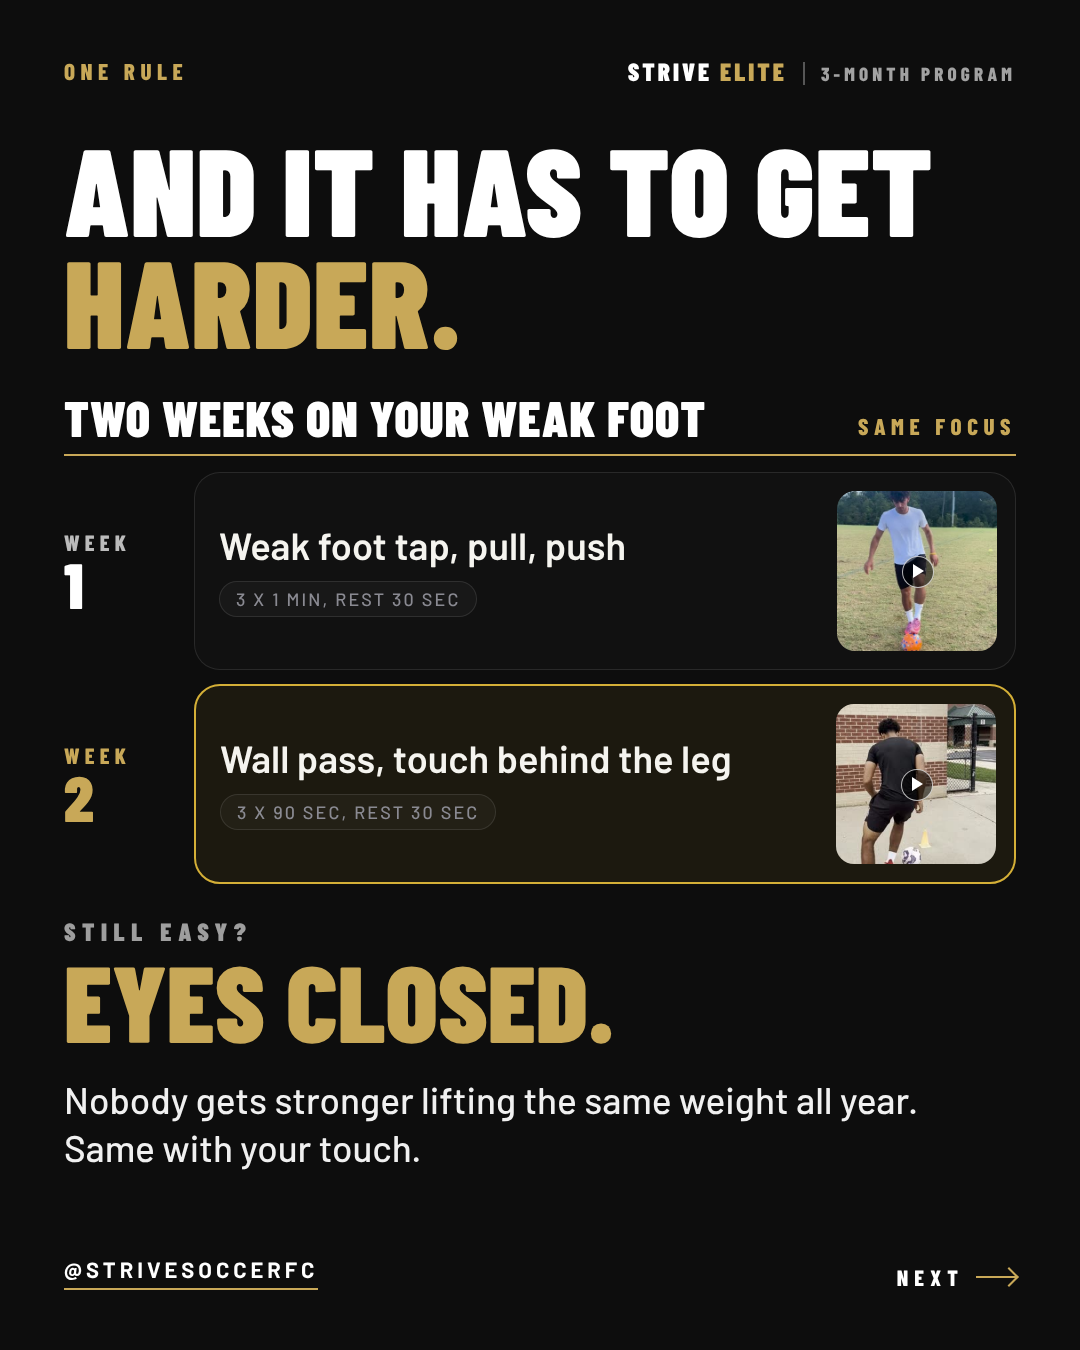
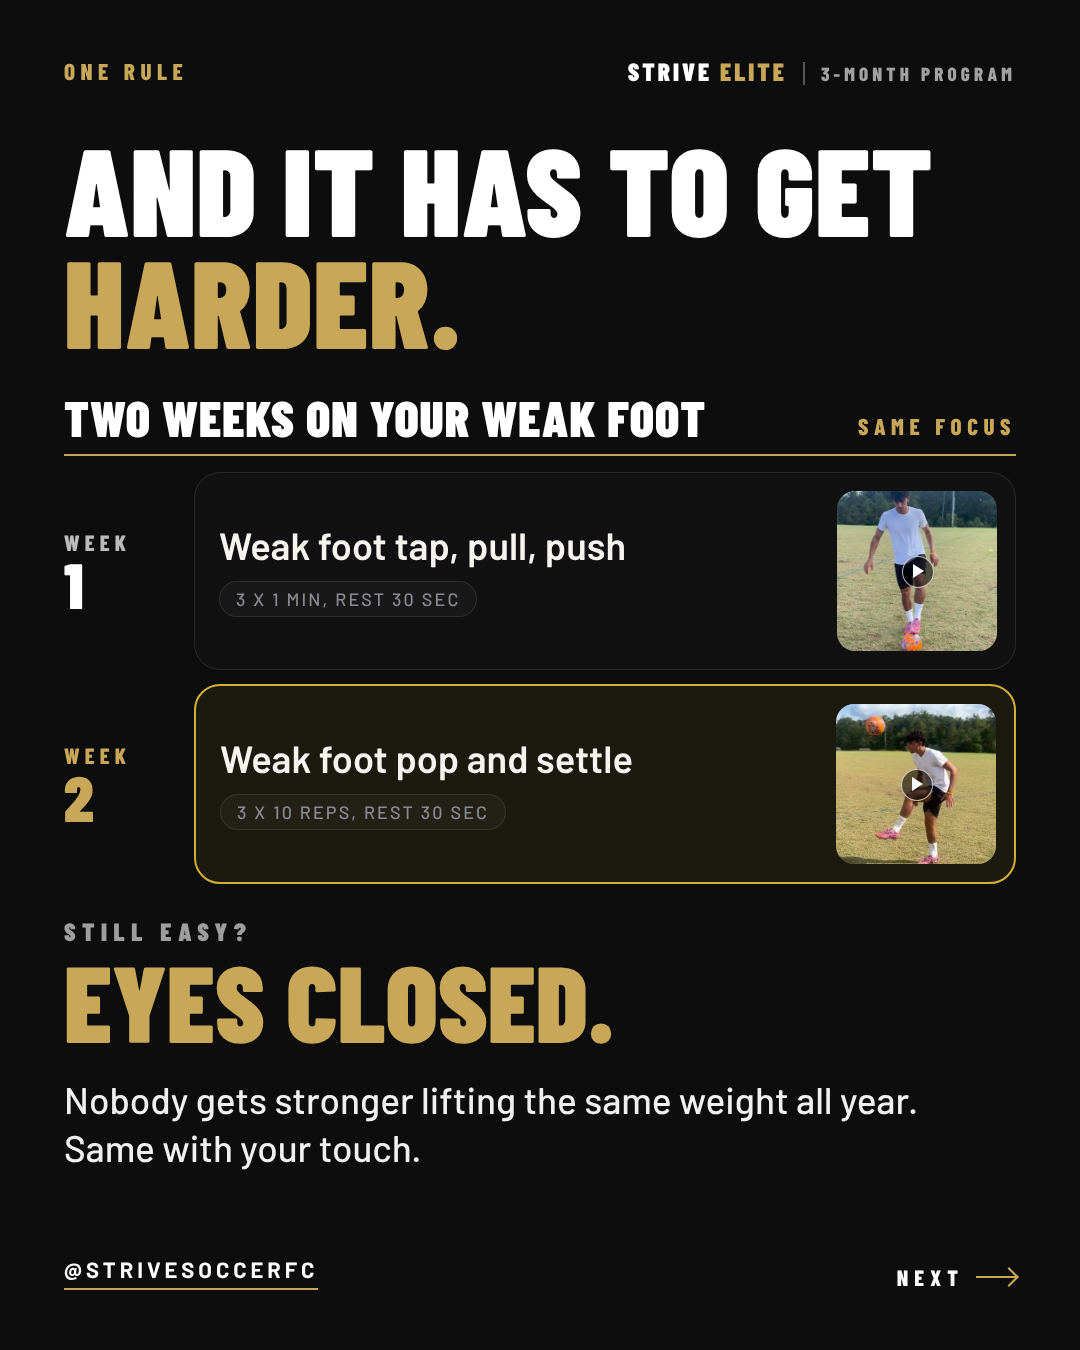
Opinion carousel: week two drill is Weak foot pop and settle
Claude-Session: https://claude.ai/code/session_011JsCTTjCbUkHbTuWTKQSXJ

Changed region(s): [[0.7639, 0.4978, 0.9472, 0.6533], [0.2444, 0.5289, 0.6722, 0.6222]]

diff --git a/marketing/program/one-thing-carousel-3/06-harder.html b/marketing/program/one-thing-carousel-3/06-harder.html
@@ -15,7 +15,7 @@
 <div class="pad"><h1>And it has to get <span>harder.</span></h1>
 <div class="sched"><div class="hd"><b>Two weeks on your weak foot</b><span>Same focus</span></div><div class="tt">
 <div class="tr"><div class="lb">Week<b>1</b></div><div class="card"><div class="tx"><div class="tl">Weak foot tap, pull, push</div><span class="chip">3 x 1 min, rest 30 sec</span></div><div class="th"><img src="app/weak-foot-tap-pull-push.jpg"></div></div></div>
-<div class="tr on"><div class="lb">Week<b>2</b></div><div class="card hi"><div class="tx"><div class="tl">Wall pass, touch behind the leg</div><span class="chip">3 x 90 sec, rest 30 sec</span></div><div class="th"><img src="app/wall-pass-behind-the-leg.jpg"></div></div></div>
+<div class="tr on"><div class="lb">Week<b>2</b></div><div class="card hi"><div class="tx"><div class="tl">Weak foot pop and settle</div><span class="chip">3 x 10 reps, rest 30 sec</span></div><div class="th"><img src="app/weak-foot-pop-and-settle.jpg"></div></div></div>
 </div></div>
 <div class="then"><small>Still easy?</small>Eyes closed.</div>
 <p class="p">Nobody gets stronger lifting the same weight all year. Same with your touch.</p></div>

diff --git a/CLAUDE.md b/CLAUDE.md
@@ -4018,6 +4018,7 @@ commit.
       THEN (Coach Yinka: "We should do 4 drills a session. Also keep the slide that was like everybody remembers this session, and it was the average normal session. Also instead of saying same 12 drills it's same 4 sessions."; asked the same hour, his answers: 4 drills a session is "Carousel only", and "2 of 4" go at the one thing): draft 3 is now TEN slides (same folder, renumbered, re-rendered). THE APP IS UNCHANGED, his call: it still builds a warm-up, three skill drills and a finisher, two of the three on the focus. To keep the picture a real session, each row on the "8" slide is weak foot, weak foot, one drill for the rest of the game, and the strength finisher or the speed drill (Passing + Strength, 1v1 skills + Speed, First touch + Strength, Ball mastery + Speed); the warm-up is not counted. CHANGES: (1) "YOU KNOW THIS SESSION." is back as slide 2 (Ten minutes of juggling. Some cone work. A few passes off the wall. A couple of shots. / You sweat. You go home feeling good. / THREE MONTHS LATER YOU'RE THE SAME PLAYER.), the weak foot set-up follows it as slide 3; (2) slide 4, four sessions of four blocks, two gold: "RIGHT NOW IT GETS 2 DRILLS." / "Four sessions. Sixteen drills. A bit of everything. That's not training your weak foot. That's visiting it." (the ordinary week names eight things incl. shooting and speed, as the session a player already does); (3) slide 5 "SAME 4 SESSIONS. NOW IT GETS 8."; (4) the session slide's phone shows the warm-up then four drills, "No. Two drills on your weak foot. Two on the rest of your game. Passing, speed, strength. A different mix every session. Nothing goes cold." Order: cover, this session, weak foot, 2 drills, 8, harder, his comeback, you get six, the session, close. "30 day" versus 3-month is still unanswered by him; the slides say 3-month. Sent, not posted.
       THEN (Coach Yinka: "I liked the one where it was about strength and speed and. There's more to the game than drills"): both slides are BACK from draft 2, each its own objection, so draft 3 is TWELVE slides: cover, this session, weak foot, 2 drills, 8, harder, his comeback, you get six, "So it's only weak foot for two weeks?" (No. Two on your weak foot, two on the rest of your game), "What about speed and strength?" (They don't wait their turn. Speed work comes right after the warm-up. Strength ends the session.), "There's more to the game than drills." (We know. Film Room every Sunday on Zoom, a 1:1 call once a month; the app's Film Room and check-in cards), close (the Film Room line is off the close again). Sent, not posted.
       THEN (Coach Yinka, with screenshots of the six-focus, comeback and harder slides: "the sessions design needs to make it more clear that it's the weeks and sessions however you can make it more premium / clear. And that's how I came back we need the copy to represent the purpose of the structure and how I used the principal of this structure"): (1) EVERY SCHEDULE GRAPHIC now carries a header over a gold rule, the stretch of time on the left and what is in it on the right, and every row is labelled the same way (the unit small, its number big): slide 4 "ONE WEEK / 4 sessions, 16 drills", slide 5 "WEEK 1 AND WEEK 2 / 4 sessions each", slide 6 "TWO WEEKS ON YOUR WEAK FOOT" with rows Week 1 and Week 2 beside the two drill cards, slide 8 "12 WEEKS / two weeks on each" with the week labels larger in each block (.hd in style.css). (2) THE COMEBACK SLIDE REWRITTEN around the principle: "Six months out with a hip tear. Two months to get ready for a more competitive team. No time to fix everything at once." / "SO ONE THING GOT MOST OF MY WORK. THEN THE NEXT." / "My two months, in this order": first the ball, once I could run fitness, once I could sprint speed / "A ball and a wall, 45 minutes, every day. The rest of my game kept moving. It just wasn't the main thing. I went from the bench to starting." FLAG: "no time to fix everything at once" and "the rest of my game kept moving" are my wording of his principle, his to check word for word. Sent, not posted.
+      THEN (Coach Yinka, on the harder slide: "3rd we need a weak foot drill like pop it up and first touch or wall work first touch for the harder version"): the Week 2 card is now "Weak foot pop and settle", 3 x 10 reps, rest 30 sec (the bank's title and reps), with a frame of its clip (app/weak-foot-pop-and-settle.jpg); "Wall pass, touch behind the leg" is off the slide. FLAGS: the bank has pop and settle at level 1 (easier) and tap, pull, push at level 1 too, so the app would not yet lead a second week with it; moving it to harder is one edit at /coach/drills, his call. "Eyes closed" under a drill where the ball is in the air may not be how he would progress it. Sent, not posted.
 
 ## Skills (use them without being asked)
 

diff --git a/marketing/program/one-thing-carousel-3/README.md b/marketing/program/one-thing-carousel-3/README.md
@@ -58,7 +58,8 @@ the strength finisher or the speed drill.
    session, two weeks straight. Enough to change it. Then the next thing
    gets its turn.
 6. AND IT HAS TO GET HARDER. / Week one: Weak foot tap, pull, push. Week
-   two: Wall pass, touch behind the leg. Still easy? EYES CLOSED. /
+   two: Weak foot pop and settle (pop it up, first touch; his pick over
+   the wall pass behind the leg). Still easy? EYES CLOSED. /
    Nobody gets stronger lifting the same weight all year. Same with your
    touch.
 7. IT'S HOW I CAME BACK. / Six months out with a hip tear. Two months to
